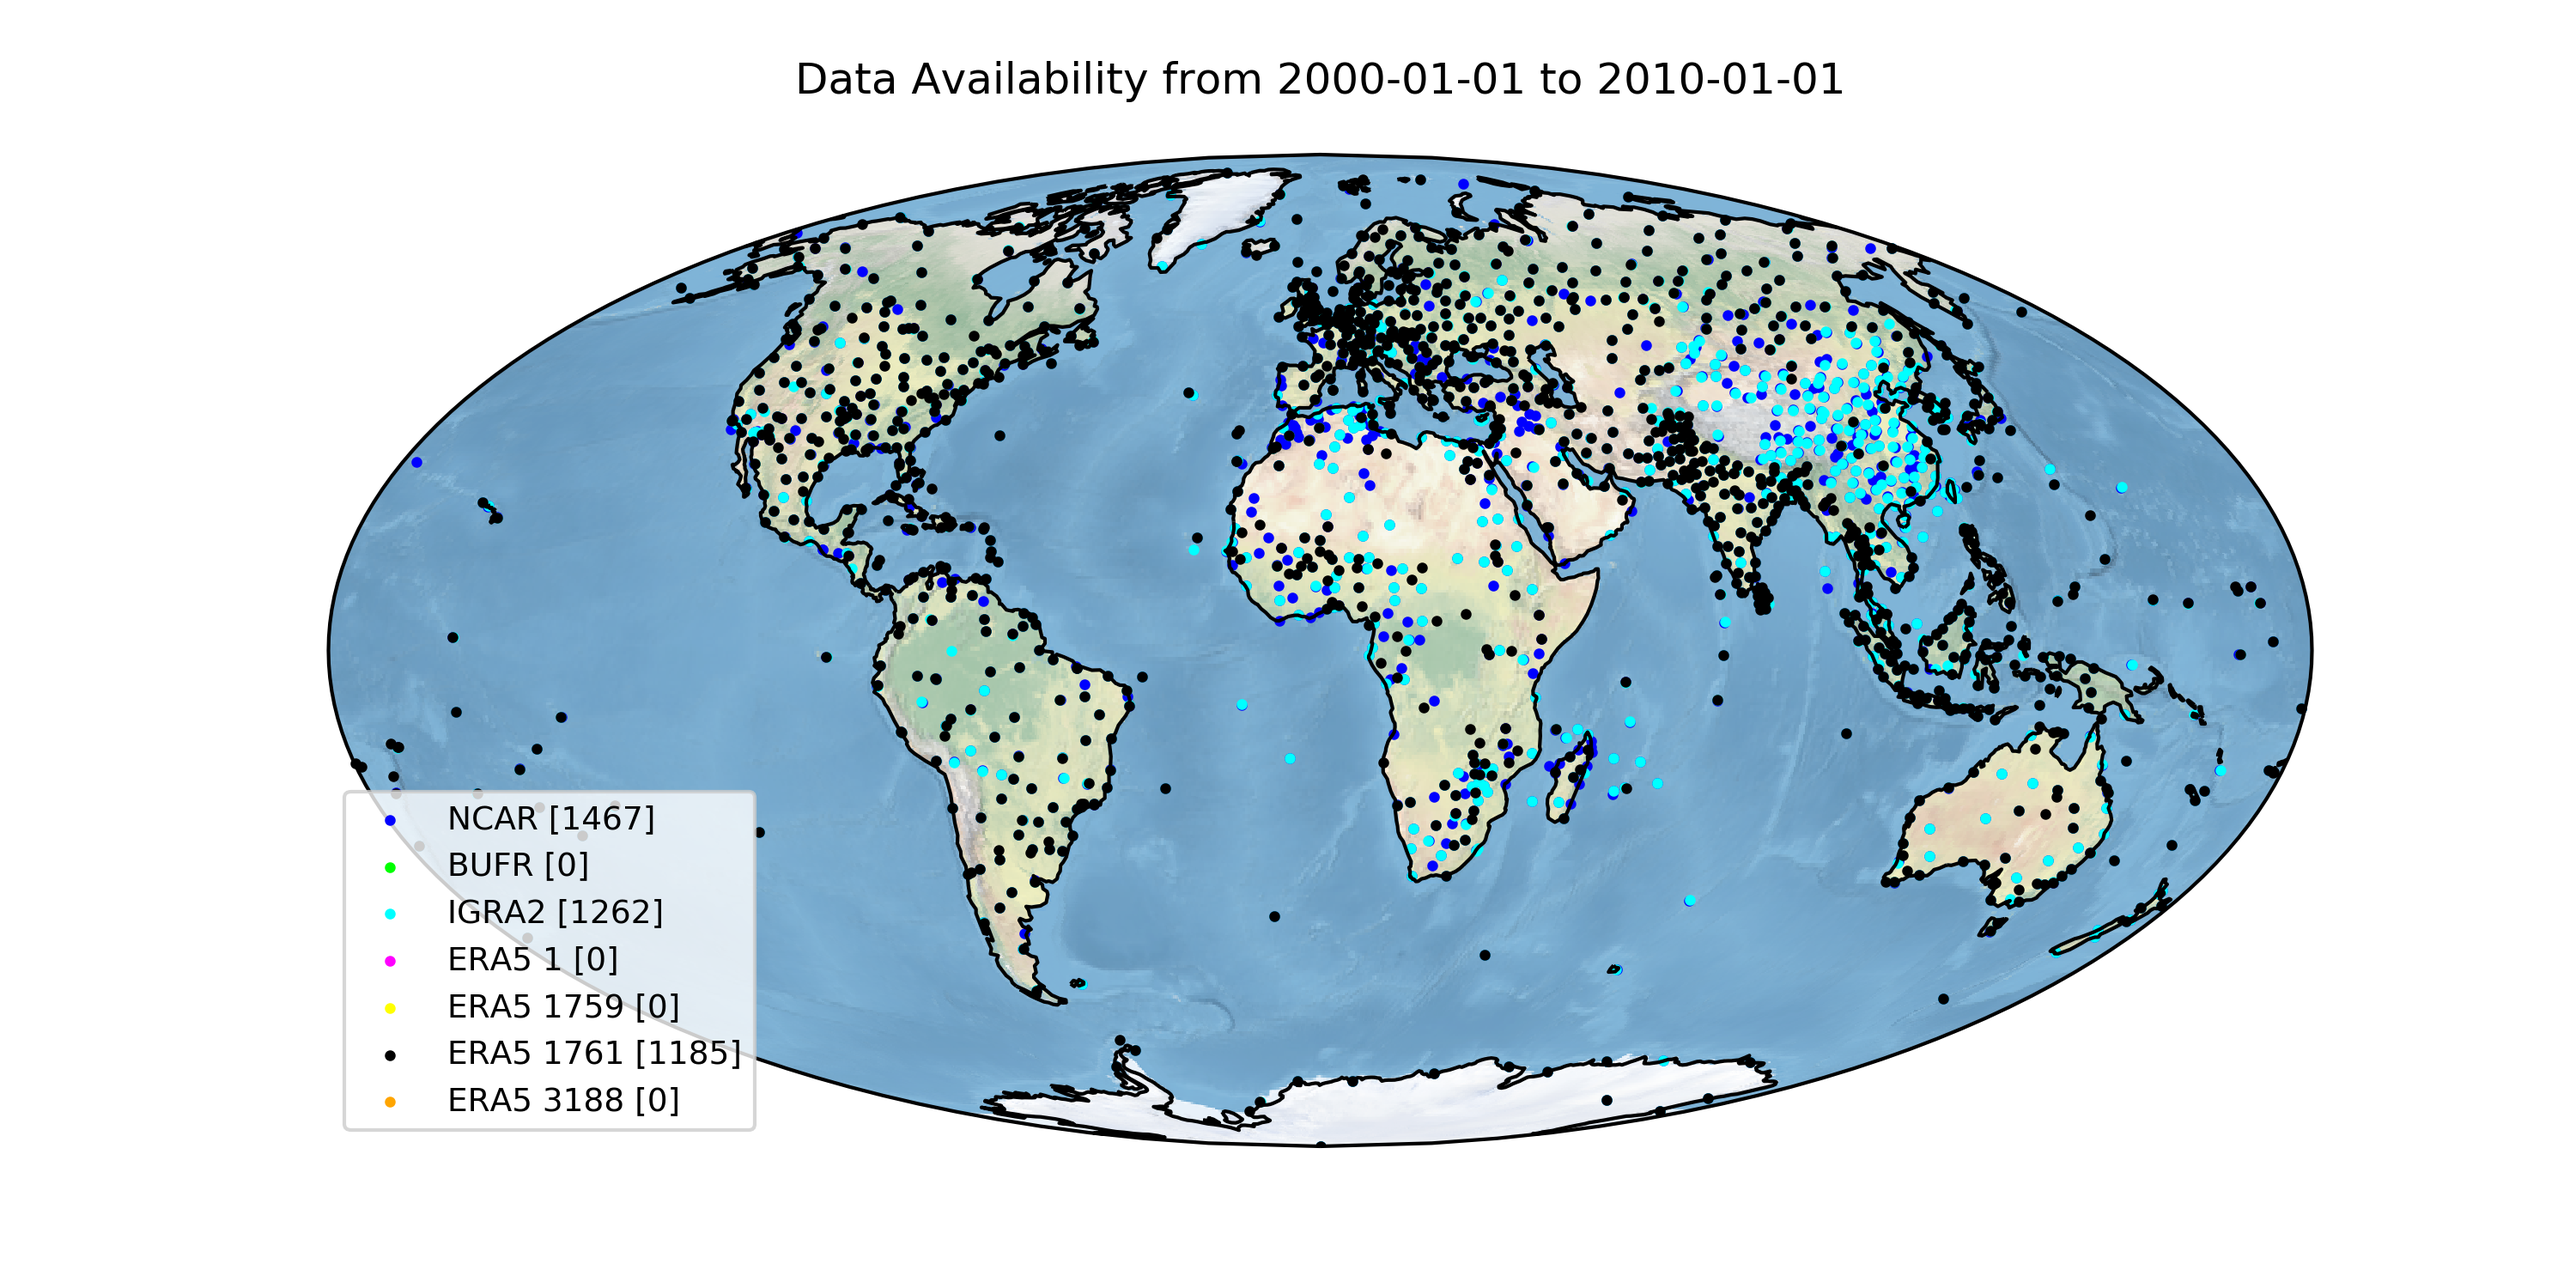
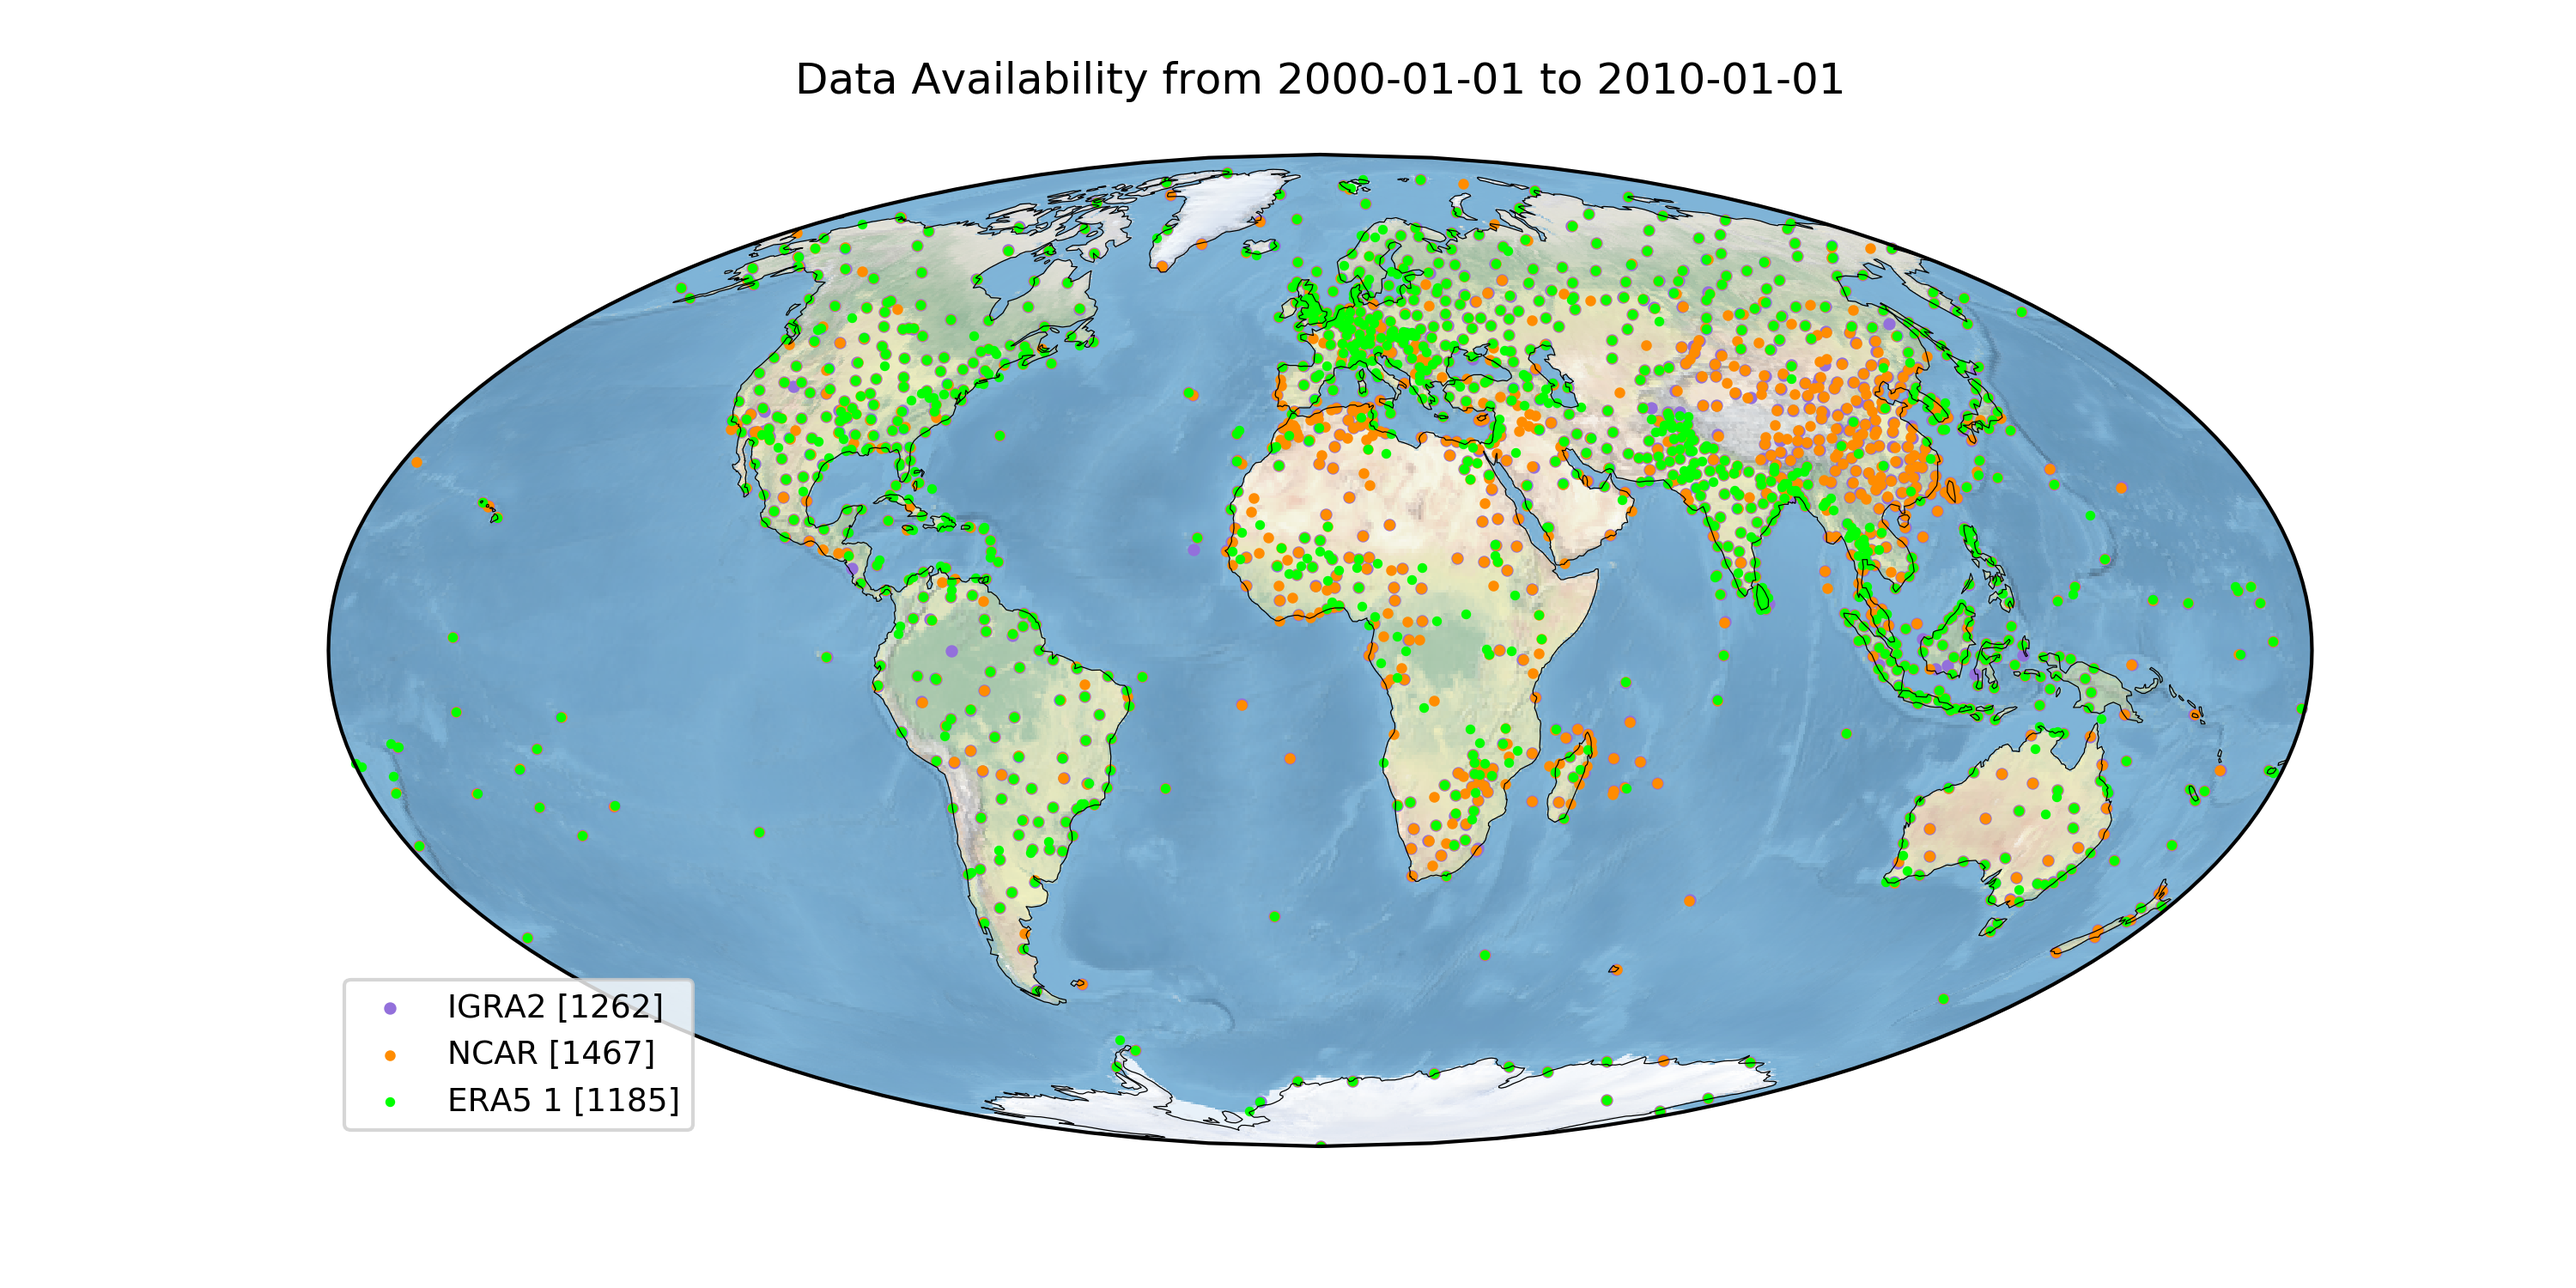
up plots

diff --git a/CEUAS/cdm/code/merging/plot_directory/plot_stations_distributions.py b/CEUAS/cdm/code/merging/plot_directory/plot_stations_distributions.py
@@ -29,25 +29,33 @@ def plot_properties(flag = ''):
         gl.ylabels_right = False        
         gl=ax.gridlines(draw_labels=True , ls = ':', color = 'lightgray')
         plt.grid(ls = '--', color = 'lightgray')  
-        '''
-        
+        '''        
         ax.stock_img()        
-
-        ax.coastlines(color = 'blue')
 
 
     elif flag == 'pretty': 
         ax = plt.axes(projection=ccrs.Mollweide())
         ax.stock_img()
-        ax.coastlines()
+
+    ax.coastlines(color = 'black' , linewidth=0.3)
 
     #ax.coastline()
     #plt.xlim([-180.,180.])
     #plt.ylim([-90.,90.])
 
-       
-    d = {'ncar':'blue', 'bufr':'lime', 'igra2':'cyan', 'era5_1':'magenta', 'era5_1759':'yellow', 'era5_1761':'black', 'era5_3188':'orange' } 
-    #d = {'ncar':'blue', } 
+    """ dictionary defining the style of the points """   
+    d = {'ncar'     : ['darkorange' , 4 , 'o'] , 
+         'bufr'     : ['red'    , 3 , 'o'] ,
+         'igra2'    : ['mediumpurple'   , 6 , 'o'] ,
+         'era5_1'   : ['lime' , 3  , 'o'] , 
+         'era5_1759': ['blue'   , 13 , 'o'] , 
+         'era5_1761': ['cyan'   , 8 , 'o'] ,
+         'era5_3188': ['yellow' , 2 , 'o'] ,
+ } 
+
+
+
+
     
     return d
 
@@ -83,13 +91,17 @@ def makePlot(start_date= '', end_date = '', file = '', flag = ''):
     """ Main function to plot maps. 
          [start, end]: time range for the data 
          file+ summary of all the station_configuration files merged together """
-    
+
+    print('Plotting :::' , start_date, ' ' , end_date , ' ' , flag )
+
+    # check the column names order in the merging_netcdf.py script     
     col_names = ['ncar_lat', 'ncar_lon', 'ncar_start', 'ncar_end',    
                              'igra2_lat', 'igra2_lon', 'igra2_start', 'igra2_end'  ,    
                              'bufr_lat', 'bufr_lon', 'bufr_start', 'bufr_end', 
-                             'era5_1761_lat', 'era5_1761_lon', 'era5_1761_start', 'era5_1761_end',     
+     
                              'era5_1_lat', 'era5_1_lon', 'era5_1_start', 'era5_1_end',      
                              'era5_1759_lat', 'era5_1759_lon', 'era5_1759_start', 'era5_1759_end', 
+                             'era5_1761_lat', 'era5_1761_lon', 'era5_1761_start', 'era5_1761_end',
                              'era5_3188_lat', 'era5_3188_lon', 'era5_3188_start', 'era5_3188_end' ]
                     
 
@@ -98,15 +110,18 @@ def makePlot(start_date= '', end_date = '', file = '', flag = ''):
        
     dic = plot_properties(flag = flag)
     
-    for d, color  in dic.items():
+    for d in ['era5_1759', 'era5_1761', 'igra2', 'ncar', 'era5_3188', 'bufr', 'era5_1']:
+
+        lat, lon =  clean_data( tab[ d + '_lat'], tab[d + '_lon'],  tab[d + '_start'] , tab[d + '_end'] , date_min = start_date, date_max= end_date )  # cleaning the station to be plotted                                                                                    
+
+        if len(lon) <1: continue 
+
+        color  = dic[d][0]
+        marker = dic[d][2]
+        size   = dic[d][1]
         lab = d.replace('era5_1','ERA5 1').replace('era5_3188','ERA5 3188').replace('era5_1759','ERA5 1759').replace('era5_1761','ERA5 1761').replace('igra2','IGRA2').replace('ncar','NCAR').replace('bufr','BUFR')         
-        lat, lon =  clean_data( tab[ d + '_lat'], tab[d + '_lon'],  tab[d + '_start'] , tab[d + '_end'] , date_min = start_date, date_max= end_date )  # cleaning the station to be plotted 
-        
-        #lat, lon = lat[:10], lon[:10]
-        #lat = [-5, 100]
-        #lon = [100, -50]
-        #plt.scatter (lon, lat,   color = color , transform=ccrs.PlateCarree(central_longitude = 0.0), s = 7, label = d)
-        plt.scatter (lon, lat,   color = color, transform=ccrs.PlateCarree(central_longitude = 0.0), s = 4, label = lab + ' [' + str(len(lon)) + ']' )
+
+        plt.scatter (lon, lat,   color = color, transform=ccrs.PlateCarree(central_longitude = 0.0), s = size, label = lab + ' [' + str(len(lon)) + ']' )
        
     plt.title('Data Availability from ' + start_date + ' to ' + end_date , y = 1.04 )   
     plt.legend(loc = 'lower left', ncol = 1, fontsize = 9)   
@@ -119,7 +134,10 @@ def makePlot(start_date= '', end_date = '', file = '', flag = ''):
 ############################# Plotting part       
        
 for f in ['', 'pretty']:
-        
+    
+    a = makePlot(start_date = '1940-01-01', end_date = '1950-01-01',   file = 'summary_forplot.dat', flag = f )
+   
+     
     a = makePlot(start_date = '1900-01-01', end_date = '1920-01-01',   file = 'summary_forplot.dat', flag = f )
     a = makePlot(start_date = '1920-01-01', end_date = '1940-01-01',   file = 'summary_forplot.dat', flag = f ) 
     a = makePlot(start_date = '1940-01-01', end_date = '1950-01-01',   file = 'summary_forplot.dat', flag = f ) 
